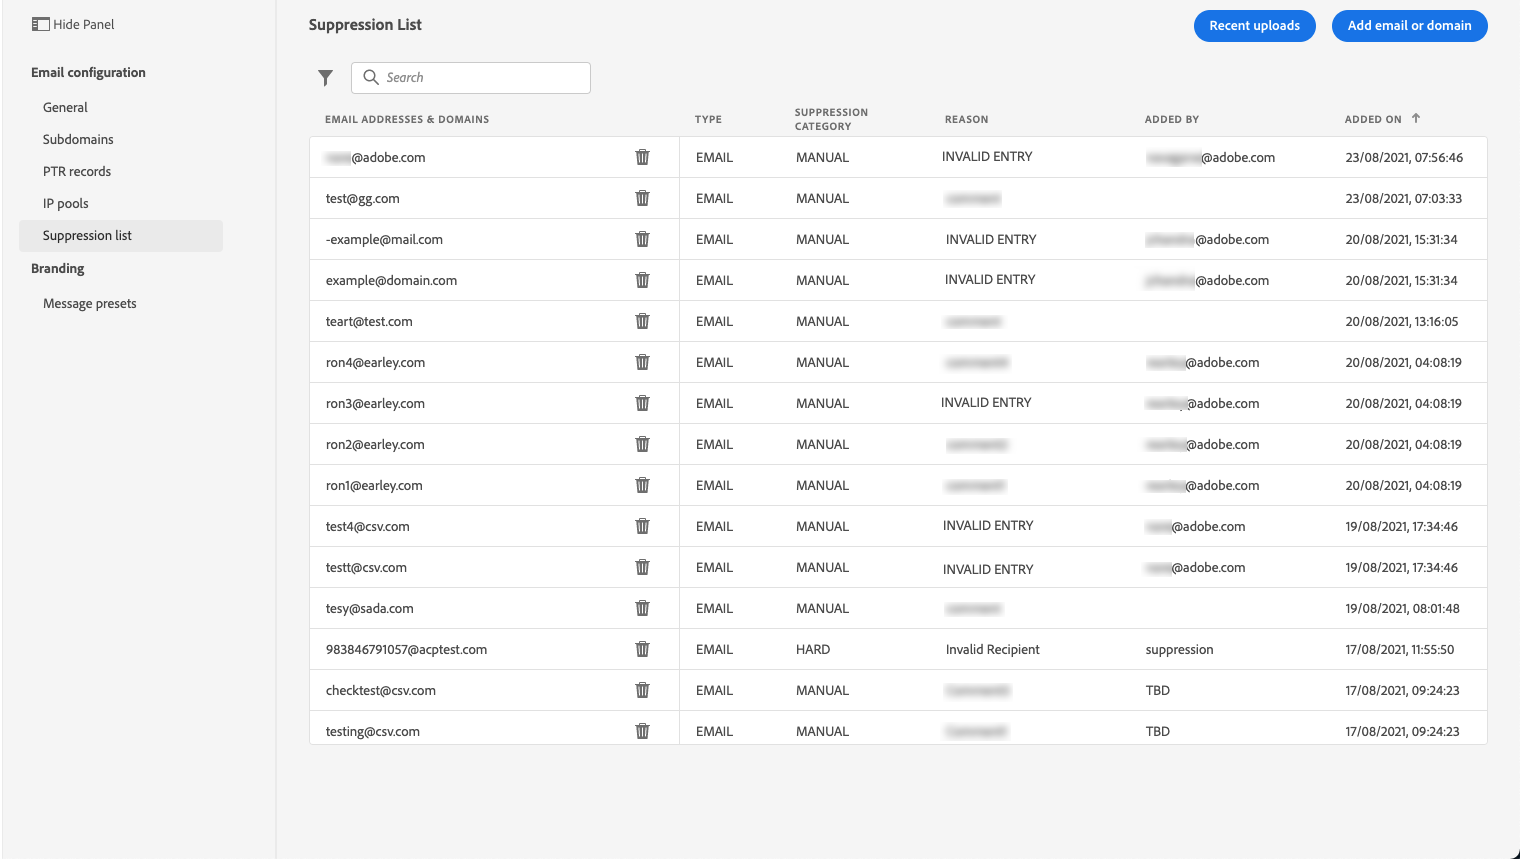
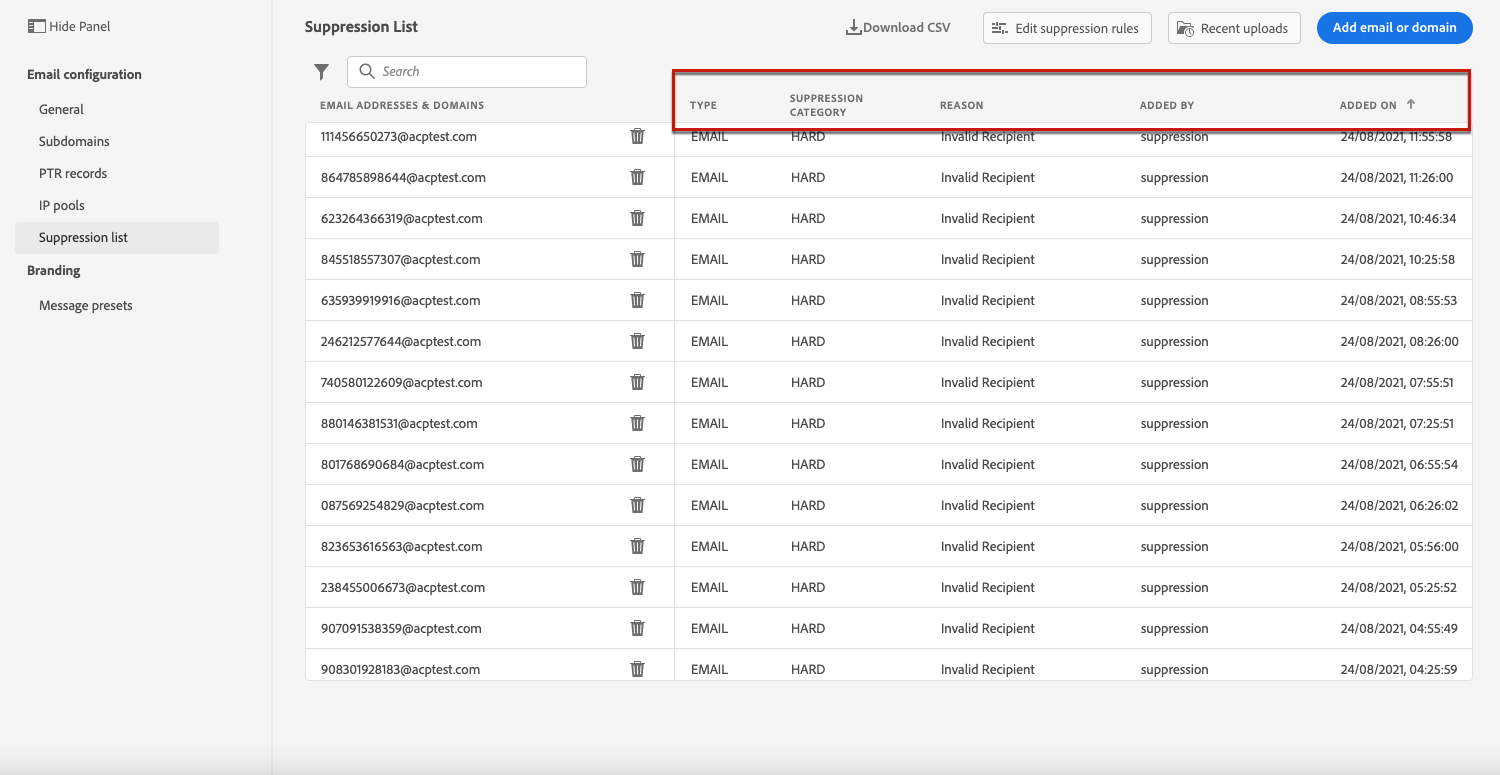
Suppression list screen updates

diff --git a/help/using/configuration/manage-suppression-list.md b/help/using/configuration/manage-suppression-list.md
@@ -30,6 +30,8 @@ Such email addresses are automatically collected into the Journey Optimizer **su
 
 To access the detailed list of excluded email addresses, go to **[!UICONTROL Administration]** > **[!UICONTROL Channels]** > **[!UICONTROL Email configuration]**, and select **[!UICONTROL Suppression list]**.
 
+<!--You can also display the suppression list content using the **[!UICONTROL View suppression list]** link through the **[!UICONTROL Channels]** > **[!UICONTROL Email configuration]** > **[!UICONTROL General]** menu, but this view does not allow you to edit the list.-->
+
 ![](../assets/suppression-list-access.png)
 
 Filters are available to help you browse through the list.
@@ -150,6 +152,7 @@ To do this, select the **[!UICONTROL Add email or domain]** button, then follow 
     EMAIL,abc@somedomain.com,Comment
     DOMAIN,somedomain.com,Comment
     ```
+    You can also download this template from the **[!UICONTROL Suppression list]** main view.
 
     >[!CAUTION]
     >
